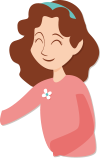
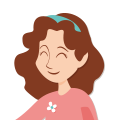
123

diff --git a/theme/cn/style.css b/theme/cn/style.css
@@ -363,11 +363,11 @@ table.tb-rep{border-collapse:inherit;border-spacing:0;color:#666666;width:100%;}
 .baby-head-portrait{top:-1.7561rem;left:4.2927rem;}
 .father-head-portrait{top:2.1463rem;left:0.4878rem;}
 .photos .upHead{position: relative;width:1.561rem;height:1.561rem;border:2px solid #D8EFD5;border-radius: 50%;margin-bottom:0.1463rem;overflow: hidden;background: #fff;}
-.photos .upHead>img{margin:0 auto;position: relative;}
+.photos .upHead>img{width:100%;height:100%;position: relative;}
 img.userHead{width:100%;height:100%;}
-.photos .baby-head-portrait .noHead{width:1.1512rem;height:0.9366rem;top:0.2927rem;}
-.photos .father-head-portrait .noHead{width:1.3659rem;height:2.5366rem;}
-.photos .mather-head-portrait .noHead{width:1.2683rem;height:1.9512rem;top:0.1951rem;}
+/*.photos .baby-head-portrait .noHead{width:1.1512rem;height:0.9366rem;top:0.2927rem;}
+.photos .father-head-portrait .noHead{width:100%;height:100%;}
+.photos .mather-head-portrait .noHead{width:1.2683rem;height:1.9512rem;top:0.1951rem;}*/
 .photos .upHead input{position: absolute;width:100%;height:100%;top:0;left:0;opacity: 0;}
 .photos .upHead b{position: absolute;left:50%;bottom:0;width:0.5268rem;height:0.5268rem;background:#FFFFFE;border-radius:50%;transform: translateX(-50%);opacity: .6;}
 .photos .upHead p{position: absolute;left:50%;bottom:0.1073rem;width: 0.3902rem;height: 0.3122rem;background:url('../../content/epaper/images/samll_camera.png') no-repeat;background-size:100% 100%;transform: translateX(-50%);}
@@ -642,7 +642,7 @@ img.userHead{width:100%;height:100%;}
 .parent-head-portrait,.baby_info .baby-head-portrait{text-align: center;}
 .parent-head-portrait .upHead,.baby_info .baby-head-portrait .upHead{position: relative;width:2.3415rem;height:2.3415rem;border:2px solid #CDEAC9;border-radius: 50%;overflow: hidden;background: #fff;margin:0 auto;}
 .parent-head-portrait .upHead>img{width:100%;height:100%;position: relative;}
-.baby_info .baby-head-portrait .upHead>img{width:80%;height:80%;position: relative;top:0.1951rem;}
+.baby_info .baby-head-portrait .upHead>img{width:100%;height:100%;}
 .parent-head-portrait .noHead,.baby_info .baby-head-portrait .noHead{width:100%;height:100%;}
 .parent-head-portrait .upHead input,.baby_info .baby-head-portrait .upHead input{position: absolute;width:100%;height:100%;top:0;left:0;opacity: 0;}
 .parent-head-portrait .upHead b,.baby_info .baby-head-portrait .upHead b{position: absolute;left:50%;bottom:0;width:0.5268rem;height:0.5268rem;background:#FFEEE2;border-radius:50%;transform: translateX(-50%);opacity: .6;}

diff --git a/cn/inc_footer.html b/cn/inc_footer.html
@@ -1,31 +1,31 @@
 <section>
 	<ul class="foooter_nav">
 		<li class="icon_menu">
-			<a href="ceanza_menu.php">
+			<a href="javascript:void(0)" onclick="goUrlClick('ceanza_menu.php')">
 				<p></p>
 				<b>成长记录</b>
 			</a>
 		</li>
 		<li class="icon_index">
-			<a href="itemlist.php">
+			<a  href="javascript:void(0)" onclick="goUrlClick('itemlist.php')">
 				<p></p>
 				<b>成长指标</b>
 			</a>
 		</li>
 		<li class="icon_report">
-			<a href="report.php">
+			<a  href="javascript:void(0)" onclick="goUrlClick('report.php')">
 				<p></p>
 				<b>成长报告</b>
 			</a>
 		</li>
 		<li class="icon_newcomers">
-			<a href="newcomers.php">
+			<a  href="newcomers.php">
 				<p></p>
 				<b>新手上路</b>
 			</a>
 		</li>
 		<li class="icon_person">
-			<a href="person.php">
+			<a  href="javascript:void(0)" onclick="goUrlClick('person.php')">
 				<p></p>
 				<b>我的</b>
 			</a>
@@ -51,4 +51,6 @@
     }else if(pageName() == 'person'){
     	$('.foooter_nav li.icon_person').addClass('active')
     }
+
+
 </script>

diff --git a/cn/inc_header.php b/cn/inc_header.php
@@ -93,6 +93,9 @@ $(function(){
     $("#menuitem_6_m").click(onMenuItem6Click);
     $("#menuitem_7").click(onMenuItem7Click);
     $("#menuitem_7_m").click(onMenuItem7Click);
+	$("#menuitem_8").click(onMenuItem8Click);
+	$("#menuitem_8_m").click(onMenuItem8Click);
+
 });
 
 function onMenuItem2Click() {
@@ -234,6 +237,55 @@ function onMenuItem7Click() {
             error: function(xhr, err) {
       		}
         }); 
+}
+
+function onMenuItem8Click() {
+	$.ajax({url: "check_login_status.ajax.php",
+		type: "POST",
+		dataType: "json",
+		success: function (jsonStr) {
+			if(jsonStr.islogin==true) {
+				_next_move_ = 0;
+				document.location.href = 'http://x.eqxiu.com/s/PclsbuXT';
+			}
+			else {
+				_next_move_ = 107;
+				$.fancybox({
+					href: "#fy-login"
+				});
+			}
+		},
+		error: function(xhr, err) {
+		}
+	});
+}
+
+function goUrlClick(url) {
+	$.ajax({url: "check_login_status.ajax.php",
+		type: "POST",
+		dataType: "json",
+		success: function (jsonStr) {
+			if(jsonStr.islogin==true) {
+				if(jsonStr.haskid==true) {
+					_next_move_ = 0;
+					document.location.href = url;
+				}
+				else {
+					_next_move_ = 100;
+					showEditBabyBox();
+				}
+			}
+			else {
+				_next_move_ = 100;
+				$.fancybox({
+					href: "#fy-login"
+				});
+			}
+		},
+		error: function(xhr, err) {
+			alert('Ajax request ' + err);
+		}
+	});
 }
 
 //-- birhday --//
@@ -468,7 +520,7 @@ function loadTrialQA(year,month) {
 <!--	            <li --><?php //if($pagename=='training') echo('class="on"'); ?><!-->
 <!--					<a id="menuitem_4" href="javascript:void(0);">每日e练习</a>-->
 <!--				</li>-->
-	            <li <?php if($pagename=='buds_record') echo('class="on"'); ?>><a href="buds_record.php">萌芽记录</a></li>
+	            <li <?php if($pagename=='buds_record') echo('class="on"'); ?>><a id="menuitem_8">萌芽记录</a></li>
 
 	            <li <?php if($pagename=='epaper') echo('class="on"'); ?>><a  id="menuitem_7" href="javascript:void(0);">巴布豆家庭早教</a></li>
 	            <li <?php if($pagename=='about') echo('class="on"'); ?>><a href="about.php">关于我们</a></li>
@@ -487,7 +539,7 @@ function loadTrialQA(year,month) {
 			<li <?php if($pagename=='itemlist') echo('class="on"'); ?>><a id="menuitem_3_m" href="javascript:void(0);">成长指标</a></li>
 			<li <?php if($pagename=='report') echo('class="on"'); ?>><a id="menuitem_6_m" href="javascript:void(0);">成长报告</a></li>
 			<li <?php if($pagename=='ceanza_menu') echo('class="on"'); ?>><a id="menuitem_2_m" href="javascript:void(0);">成长日记</a></li>
-            <li <?php if($pagename=='buds_record') echo('class="on"'); ?>><a href="buds_record.php">萌芽记录</a></li>
+            <li <?php if($pagename=='buds_record') echo('class="on"'); ?>><a id="menuitem_8_m">萌芽记录</a></li>
 
             <li <?php if($pagename=='epaper') echo('class="on"'); ?>><a id="menuitem_7_m" href="javascript:onMenuItem4Click();">巴布豆家庭早教</a></li>
             <li <?php if($pagename=='about') echo('class="on"'); ?>><a href="about.php">关于我们</a></li>

diff --git a/cn/index.php b/cn/index.php
@@ -48,7 +48,6 @@ if(isset($payload)) {
                     unset($_SESSION['user_epaper']);
                     unset($_SESSION['auth_code']);
                     unset($_SESSION['CURRENT_KID_UID']);
-                    unset($_SESSION['CURRENT_KID_NICKNAME']);
                     unset($_SESSION['CURRENT_KID_AGE']);
                     unset($_SESSION['question_uid']);
                     unset($_SESSION['answer_id']);
@@ -101,7 +100,6 @@ if(isset($payload)) {
             unset($_SESSION['user_epaper']);
             unset($_SESSION['auth_code']);
             unset($_SESSION['CURRENT_KID_UID']);
-            unset($_SESSION['CURRENT_KID_NICKNAME']);
             unset($_SESSION['CURRENT_KID_AGE']);
             unset($_SESSION['question_uid']);
             unset($_SESSION['answer_id']);

diff --git a/cn/login.php b/cn/login.php
@@ -38,6 +38,16 @@ else {
 		$kid = M()->find($sql);
 		$_SESSION['CURRENT_KID_BIRTH_DAY'] = $kid['birth_day'];
 		$_SESSION['CURRENT_KID_UID'] = $kid['uid'];
+		$_SESSION['CURRENT_KID_NICKNAME'] = $kid['nick_name'];
+		$_birthday = $kid['birth_day'];
+		$birthday = new DateTime($_birthday);
+		$diff = $birthday->diff(new DateTime());
+		$months = $diff->format('%m') + 12 * $diff->format('%y');
+		$days = $diff->format('%d');
+		if($days >= 15)
+			$months += 0.5;
+		$user_age = $months;
+		$_SESSION['CURRENT_KID_AGE'] = $user_age;
 		echo(genResponse(true, json_encode($arr)));
 	}
 	else

diff --git a/cn/itemlist.php b/cn/itemlist.php
@@ -64,7 +64,12 @@ if(!isset($tabon))
                             <div class="progress_data">
 
                                 <h3>
-                                    <?= $_SESSION['CURRENT_KID_NICKNAME'];?>
+                                    <?=
+
+                                    $_SESSION['CURRENT_KID_NICKNAME'];
+
+
+                                    ?>
                                     <span>
                                     <?php
                                     $birthday = new DateTime($_SESSION['CURRENT_KID_BIRTH_DAY']);

diff --git a/cn/ceanza_menu.php b/cn/ceanza_menu.php
@@ -1,6 +1,14 @@
 <?php
 session_start();
 include('inc.php');
+
+$tabon = @$_REQUEST['f'];
+if(!isset($tabon))
+    $tabon = 0;
+if(!isset($_SESSION['user_token'])) {
+    header( 'Location: index.php' ) ;
+    exit();
+}
 ?>
 <!DOCTYPE html>
 <html><!-- InstanceBegin template="/Templates/_page01.dwt" codeOutsideHTMLIsLocked="false" -->

diff --git a/cn/person.php b/cn/person.php
@@ -1,6 +1,14 @@
 <?php
 session_start();
 include('inc.php');
+
+$tabon = @$_REQUEST['f'];
+if(!isset($tabon))
+    $tabon = 0;
+if(!isset($_SESSION['user_token'])) {
+    header( 'Location: index.php' ) ;
+    exit();
+}
 ?>
 <!DOCTYPE html>
 <html><!-- InstanceBegin template="/Templates/_page01.dwt" codeOutsideHTMLIsLocked="false" -->
